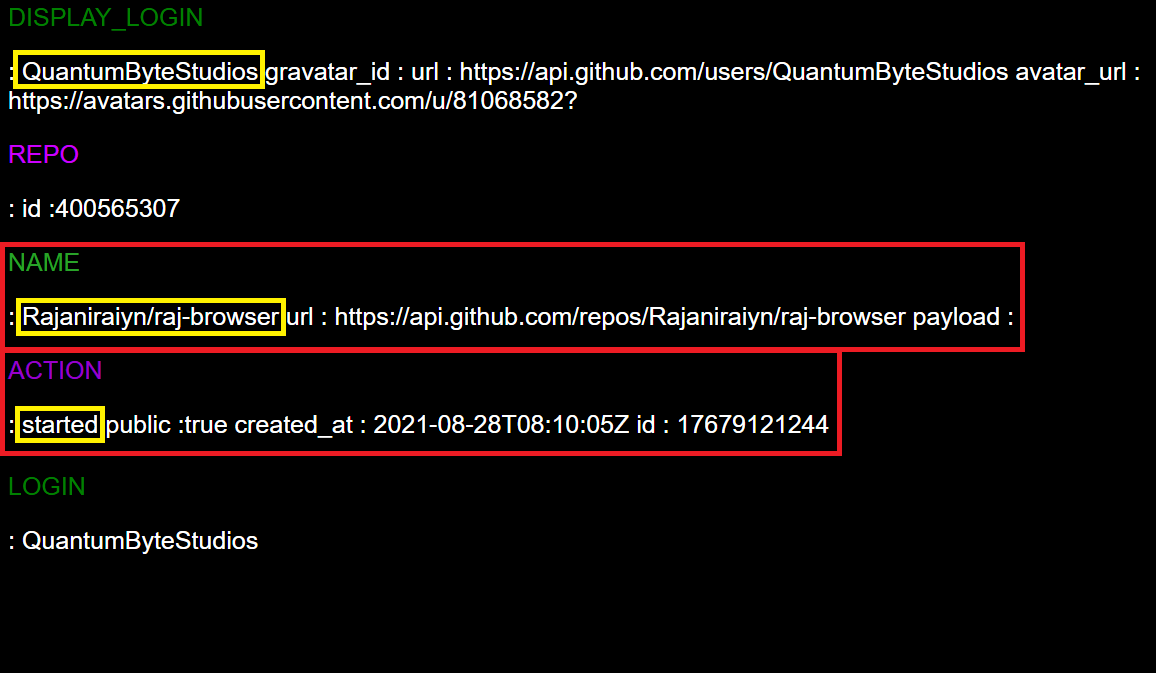
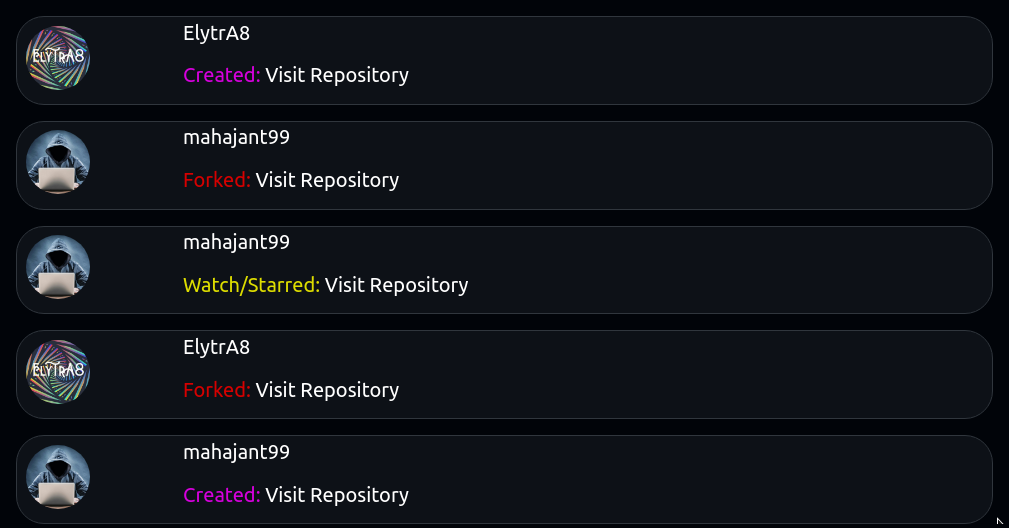
Updated Images

diff --git a/Data/ReceivedEvents/index.html b/Data/ReceivedEvents/index.html
@@ -1,0 +1,357 @@
+
+	<head>
+        <link href="https://cdn.jsdelivr.net/npm/bootstrap@5.1.3/dist/css/bootstrap.min.css" rel="stylesheet" integrity="sha384-1BmE4kWBq78iYhFldvKuhfTAU6auU8tT94WrHftjDbrCEXSU1oBoqyl2QvZ6jIW3" crossorigin="anonymous">
+    	<link rel="stylesheet" type="text/css" href="style.css">
+	</head>
+    
+            <div class="card">
+                <div class="row">
+                    <div class="col-2">
+                        <img src="https://avatars.githubusercontent.com/u/90396439?" class="img-fluid profilePicture" alt="ProfilePicture">
+                    </div>
+                    <div class="col-10">
+                        <a href="https://github.com/ElytrA8"><p>ElytrA8</p></a>
+                        <p class="create">Created: <a target="_blank" href="https://github.com/SkyLab-Devs/cosmic-docker-image">Visit Repository</a></p>
+                    </div>
+                </div>
+            </div>
+            
+            <div class="card">
+                <div class="row">
+                    <div class="col-2">
+                        <img src="https://avatars.githubusercontent.com/u/47504040?" class="img-fluid profilePicture" alt="ProfilePicture">
+                    </div>
+                    <div class="col-10">
+                        <a href="https://github.com/mahajant99"><p>mahajant99</p></a>
+                        <p class="fork">Forked: <a target="_blank" href="https://github.com/mahajant99/android_frameworks_base">Visit Repository</a></p>
+                    </div>
+                </div>
+            </div>
+            
+            <div class="card">
+                <div class="row">
+                    <div class="col-2">
+                        <img src="https://avatars.githubusercontent.com/u/47504040?" class="img-fluid profilePicture" alt="ProfilePicture">
+                    </div>
+                    <div class="col-10">
+                        <a href="https://github.com/mahajant99"><p>mahajant99</p></a>
+                        <p class="watch-star">Watch/Starred: <a target="_blank" href="https://github.com/AOSPA/android_frameworks_base">Visit Repository</a></p>
+                    </div>
+                </div>
+            </div>
+            
+            <div class="card">
+                <div class="row">
+                    <div class="col-2">
+                        <img src="https://avatars.githubusercontent.com/u/90396439?" class="img-fluid profilePicture" alt="ProfilePicture">
+                    </div>
+                    <div class="col-10">
+                        <a href="https://github.com/ElytrA8"><p>ElytrA8</p></a>
+                        <p class="fork">Forked: <a target="_blank" href="https://github.com/ElytrA8/rom-uploader">Visit Repository</a></p>
+                    </div>
+                </div>
+            </div>
+            
+            <div class="card">
+                <div class="row">
+                    <div class="col-2">
+                        <img src="https://avatars.githubusercontent.com/u/47504040?" class="img-fluid profilePicture" alt="ProfilePicture">
+                    </div>
+                    <div class="col-10">
+                        <a href="https://github.com/mahajant99"><p>mahajant99</p></a>
+                        <p class="create">Created: <a target="_blank" href="https://github.com/mahajant99/kernel_xiaomi_apolloa">Visit Repository</a></p>
+                    </div>
+                </div>
+            </div>
+            
+            <div class="card">
+                <div class="row">
+                    <div class="col-2">
+                        <img src="https://avatars.githubusercontent.com/u/72288624?" class="img-fluid profilePicture" alt="ProfilePicture">
+                    </div>
+                    <div class="col-10">
+                        <a href="https://github.com/ItsMePranjitGogoi13"><p>ItsMePranjitGogoi13</p></a>
+                        <p class="fork">Forked: <a target="_blank" href="https://github.com/ItsMePranjitGogoi13/ProjectFizilion">Visit Repository</a></p>
+                    </div>
+                </div>
+            </div>
+            
+            <div class="card">
+                <div class="row">
+                    <div class="col-2">
+                        <img src="https://avatars.githubusercontent.com/u/47504040?" class="img-fluid profilePicture" alt="ProfilePicture">
+                    </div>
+                    <div class="col-10">
+                        <a href="https://github.com/mahajant99"><p>mahajant99</p></a>
+                        <p class="watch-star">Watch/Starred: <a target="_blank" href="https://github.com/LowTension/BAALAM_android_kernel_xiaomi_sm8250">Visit Repository</a></p>
+                    </div>
+                </div>
+            </div>
+            
+            <div class="card">
+                <div class="row">
+                    <div class="col-2">
+                        <img src="https://avatars.githubusercontent.com/u/47504040?" class="img-fluid profilePicture" alt="ProfilePicture">
+                    </div>
+                    <div class="col-10">
+                        <a href="https://github.com/mahajant99"><p>mahajant99</p></a>
+                        <p class="watch-star">Watch/Starred: <a target="_blank" href="https://github.com/LowTension/BAALAM_android_kernel_xiaomi_sm8250">Visit Repository</a></p>
+                    </div>
+                </div>
+            </div>
+            
+            <div class="card">
+                <div class="row">
+                    <div class="col-2">
+                        <img src="https://avatars.githubusercontent.com/u/58245161?" class="img-fluid profilePicture" alt="ProfilePicture">
+                    </div>
+                    <div class="col-10">
+                        <a href="https://github.com/random999999999"><p>random999999999</p></a>
+                        <p class="fork">Forked: <a target="_blank" href="https://github.com/random999999999/ProjectFizilion">Visit Repository</a></p>
+                    </div>
+                </div>
+            </div>
+            
+            <div class="card">
+                <div class="row">
+                    <div class="col-2">
+                        <img src="https://avatars.githubusercontent.com/u/47504040?" class="img-fluid profilePicture" alt="ProfilePicture">
+                    </div>
+                    <div class="col-10">
+                        <a href="https://github.com/mahajant99"><p>mahajant99</p></a>
+                        <p class="watch-star">Watch/Starred: <a target="_blank" href="https://github.com/ItsVixano/android_device_xiaomi_msm8953-common">Visit Repository</a></p>
+                    </div>
+                </div>
+            </div>
+            
+            <div class="card">
+                <div class="row">
+                    <div class="col-2">
+                        <img src="https://avatars.githubusercontent.com/u/90396439?" class="img-fluid profilePicture" alt="ProfilePicture">
+                    </div>
+                    <div class="col-10">
+                        <a href="https://github.com/ElytrA8"><p>ElytrA8</p></a>
+                        <p class="create">Created: <a target="_blank" href="https://github.com/ElytrA8/nikgapps-workflow">Visit Repository</a></p>
+                    </div>
+                </div>
+            </div>
+            
+            <div class="card">
+                <div class="row">
+                    <div class="col-2">
+                        <img src="https://avatars.githubusercontent.com/u/13186733?" class="img-fluid profilePicture" alt="ProfilePicture">
+                    </div>
+                    <div class="col-10">
+                        <a href="https://github.com/TheScarastic"><p>TheScarastic</p></a>
+                        <p class="fork">Forked: <a target="_blank" href="https://github.com/TheScarastic/userbot-1">Visit Repository</a></p>
+                    </div>
+                </div>
+            </div>
+            
+            <div class="card">
+                <div class="row">
+                    <div class="col-2">
+                        <img src="https://avatars.githubusercontent.com/u/66131257?" class="img-fluid profilePicture" alt="ProfilePicture">
+                    </div>
+                    <div class="col-10">
+                        <a href="https://github.com/ayushjha2911"><p>ayushjha2911</p></a>
+                        <p class="fork">Forked: <a target="_blank" href="https://github.com/ayushjha2911/ProjectFizilion">Visit Repository</a></p>
+                    </div>
+                </div>
+            </div>
+            
+            <div class="card">
+                <div class="row">
+                    <div class="col-2">
+                        <img src="https://avatars.githubusercontent.com/u/29519295?" class="img-fluid profilePicture" alt="ProfilePicture">
+                    </div>
+                    <div class="col-10">
+                        <a href="https://github.com/MohitSethi99"><p>MohitSethi99</p></a>
+                        <p class="watch-star">Watch/Starred: <a target="_blank" href="https://github.com/MohitSethi99/SpringArmComponent">Visit Repository</a></p>
+                    </div>
+                </div>
+            </div>
+            
+            <div class="card">
+                <div class="row">
+                    <div class="col-2">
+                        <img src="https://avatars.githubusercontent.com/u/47504040?" class="img-fluid profilePicture" alt="ProfilePicture">
+                    </div>
+                    <div class="col-10">
+                        <a href="https://github.com/mahajant99"><p>mahajant99</p></a>
+                        <p class="fork">Forked: <a target="_blank" href="https://github.com/mahajant99/android_prebuilts_clang_host_linux-x86_clang-r437112">Visit Repository</a></p>
+                    </div>
+                </div>
+            </div>
+            
+            <div class="card">
+                <div class="row">
+                    <div class="col-2">
+                        <img src="https://avatars.githubusercontent.com/u/47494608?" class="img-fluid profilePicture" alt="ProfilePicture">
+                    </div>
+                    <div class="col-10">
+                        <a href="https://github.com/IMZihad21"><p>IMZihad21</p></a>
+                        <p class="create">Created: <a target="_blank" href="https://github.com/IMZihad21/IMZihad21.github.io">Visit Repository</a></p>
+                    </div>
+                </div>
+            </div>
+            
+            <div class="card">
+                <div class="row">
+                    <div class="col-2">
+                        <img src="https://avatars.githubusercontent.com/u/47494608?" class="img-fluid profilePicture" alt="ProfilePicture">
+                    </div>
+                    <div class="col-10">
+                        <a href="https://github.com/IMZihad21"><p>IMZihad21</p></a>
+                        <p class="watch-star">Watch/Starred: <a target="_blank" href="https://github.com/rafgraph/spa-github-pages">Visit Repository</a></p>
+                    </div>
+                </div>
+            </div>
+            
+            <div class="card">
+                <div class="row">
+                    <div class="col-2">
+                        <img src="https://avatars.githubusercontent.com/u/47494608?" class="img-fluid profilePicture" alt="ProfilePicture">
+                    </div>
+                    <div class="col-10">
+                        <a href="https://github.com/IMZihad21"><p>IMZihad21</p></a>
+                        <p class="publish">Published: <a target="_blank" href="https://github.com/IMZihad21/CourseLance-Server">Visit Repository</a></p>
+                    </div>
+                </div>
+            </div>
+            
+            <div class="card">
+                <div class="row">
+                    <div class="col-2">
+                        <img src="https://avatars.githubusercontent.com/u/47494608?" class="img-fluid profilePicture" alt="ProfilePicture">
+                    </div>
+                    <div class="col-10">
+                        <a href="https://github.com/IMZihad21"><p>IMZihad21</p></a>
+                        <p class="publish">Published: <a target="_blank" href="https://github.com/IMZihad21/CourseLance-Client">Visit Repository</a></p>
+                    </div>
+                </div>
+            </div>
+            
+            <div class="card">
+                <div class="row">
+                    <div class="col-2">
+                        <img src="https://avatars.githubusercontent.com/u/47494608?" class="img-fluid profilePicture" alt="ProfilePicture">
+                    </div>
+                    <div class="col-10">
+                        <a href="https://github.com/IMZihad21"><p>IMZihad21</p></a>
+                        <p class="watch-star">Watch/Starred: <a target="_blank" href="https://github.com/awran5/react-simple-star-rating">Visit Repository</a></p>
+                    </div>
+                </div>
+            </div>
+            
+            <div class="card">
+                <div class="row">
+                    <div class="col-2">
+                        <img src="https://avatars.githubusercontent.com/u/47504040?" class="img-fluid profilePicture" alt="ProfilePicture">
+                    </div>
+                    <div class="col-10">
+                        <a href="https://github.com/mahajant99"><p>mahajant99</p></a>
+                        <p class="fork">Forked: <a target="_blank" href="https://github.com/mahajant99/platform_packages_apps_OctaviLab">Visit Repository</a></p>
+                    </div>
+                </div>
+            </div>
+            
+            <div class="card">
+                <div class="row">
+                    <div class="col-2">
+                        <img src="https://avatars.githubusercontent.com/u/47504040?" class="img-fluid profilePicture" alt="ProfilePicture">
+                    </div>
+                    <div class="col-10">
+                        <a href="https://github.com/mahajant99"><p>mahajant99</p></a>
+                        <p class="fork">Forked: <a target="_blank" href="https://github.com/mahajant99/platform_frameworks_base">Visit Repository</a></p>
+                    </div>
+                </div>
+            </div>
+            
+            <div class="card">
+                <div class="row">
+                    <div class="col-2">
+                        <img src="https://avatars.githubusercontent.com/u/13186733?" class="img-fluid profilePicture" alt="ProfilePicture">
+                    </div>
+                    <div class="col-10">
+                        <a href="https://github.com/TheScarastic"><p>TheScarastic</p></a>
+                        <p class="fork">Forked: <a target="_blank" href="https://github.com/TheScarastic/android_frameworks_base">Visit Repository</a></p>
+                    </div>
+                </div>
+            </div>
+            
+            <div class="card">
+                <div class="row">
+                    <div class="col-2">
+                        <img src="https://avatars.githubusercontent.com/u/13186733?" class="img-fluid profilePicture" alt="ProfilePicture">
+                    </div>
+                    <div class="col-10">
+                        <a href="https://github.com/TheScarastic"><p>TheScarastic</p></a>
+                        <p class="watch-star">Watch/Starred: <a target="_blank" href="https://github.com/LineageOS/android_frameworks_base">Visit Repository</a></p>
+                    </div>
+                </div>
+            </div>
+            
+            <div class="card">
+                <div class="row">
+                    <div class="col-2">
+                        <img src="https://avatars.githubusercontent.com/u/47552438?" class="img-fluid profilePicture" alt="ProfilePicture">
+                    </div>
+                    <div class="col-10">
+                        <a href="https://github.com/SelinJodhani"><p>SelinJodhani</p></a>
+                        <p class="watch-star">Watch/Starred: <a target="_blank" href="https://github.com/Ebazhanov/linkedin-skill-assessments-quizzes">Visit Repository</a></p>
+                    </div>
+                </div>
+            </div>
+            
+            <div class="card">
+                <div class="row">
+                    <div class="col-2">
+                        <img src="https://avatars.githubusercontent.com/u/82083924?" class="img-fluid profilePicture" alt="ProfilePicture">
+                    </div>
+                    <div class="col-10">
+                        <a href="https://github.com/DragonPower84"><p>DragonPower84</p></a>
+                        <p class="fork">Forked: <a target="_blank" href="https://github.com/DragonPower84/ProjectFizilion-1">Visit Repository</a></p>
+                    </div>
+                </div>
+            </div>
+            
+            <div class="card">
+                <div class="row">
+                    <div class="col-2">
+                        <img src="https://avatars.githubusercontent.com/u/95341296?" class="img-fluid profilePicture" alt="ProfilePicture">
+                    </div>
+                    <div class="col-10">
+                        <a href="https://github.com/FireStar69"><p>FireStar69</p></a>
+                        <p class="fork">Forked: <a target="_blank" href="https://github.com/Aknx77/ProjectFizilion">Visit Repository</a></p>
+                    </div>
+                </div>
+            </div>
+            
+            <div class="card">
+                <div class="row">
+                    <div class="col-2">
+                        <img src="https://avatars.githubusercontent.com/u/47504040?" class="img-fluid profilePicture" alt="ProfilePicture">
+                    </div>
+                    <div class="col-10">
+                        <a href="https://github.com/mahajant99"><p>mahajant99</p></a>
+                        <p class="publish">Published: <a target="_blank" href="https://github.com/mahajant99/mahajant99.github.io">Visit Repository</a></p>
+                    </div>
+                </div>
+            </div>
+            
+    <br>
+    <div class="container stats">
+        <div class="row">
+            <div class="col-6">
+                <img src="	https://github-readme-stats.vercel.app/api/top-langs?username=frost2k5&langs_count=8" alt="GitHubUserDataExtracter"><br>
+            </div>
+            <div class="col-6">
+                <img src="	https://github-readme-stats.vercel.app/api?username=frost2k5&show_icons=true&locale=en" alt="GitHubUserDataExtracter">
+                <img src="	https://github-readme-streak-stats.herokuapp.com/?user=frost2k5&" alt="GitHubUserDataExtracter"><br>
+            </div>
+            &nbsp;
+            <img src="	https://activity-graph.herokuapp.com/graph?username=frost2k5&theme=github" alt="GitHubUserDataExtracter"><br>
+        </div><br>
+    </div>
+    
